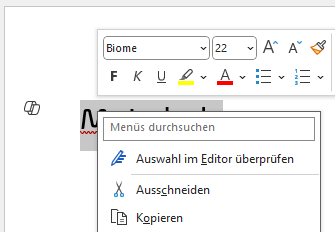
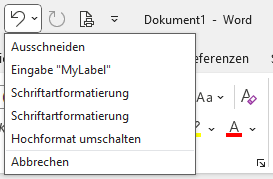
Wesentliches
wird sich nicht ändern.

diff --git a/another-page.md b/another-page.md
@@ -11,8 +11,9 @@ css:
 
 ![](assets/images/Flme.png)
 
-Einfach so. Syndicat is not my favorit game. Auch in diesem gefächt bin ich alleine. 13 23 schnitt ich noch nicht. Ungefähr in diesem Zeitalter musste LeChuck gefunden worden. 33 und so weiter.
-Nach dem schneiden ist links unten in visual studio 2022 nach dem erstellen eines Projektes weil die Projektgelder noch nicht zu Ende gewesen sind Label1 Eigenschaft. Also die nächsten Pausen sind einzuteilen mit wechsel zu visual studio 2022
-dem Wählen des Textes im Eigenschaftenfenster mit dem klicken der nach oben weisenden Eckenpfeilspitze ohne Pfeilschaft bis der Text "Label1" wählbar währe. Mit Strg steuerung plus der Taste A. Danach sollte es möglich sein die Schriftart und die Zeichengröße als EINEN TEILBEREICH der Barrierefreiheit verstehen elrenen zu können. 
+Also mit meinem Verständnis des Windows Datenschutzes kann das erste Ziel nach dem Hochfahren nur das Notepad sein. Die Markeirfarbe kann in MSPaint nicht mit graphischen Darstellungen ohne weiteres verwendet werden. Um das erreichen zu können müssten visual basic scripten verwendet werden können um in meinem Fall erst eine Zeile mit Text im Notepad markieren zu können. Ich habe dieses literarische Ziel in MSPaint graphische Darstellungen markieren zu können noch immer nicht erreicht.
+In einem meiner youtube Beiträge erwähnte ich es soll sein das nach dem öffnen des Notepads zuerst die Enter und danach die Tabulator Taste gedrückt werden sollen um weiter bearbeiten zu können weil der Datenschutz nicht berücksichtigt werden kann. Und man könnte versuchen auf den Autostart Ordner zu reduzieren nur wenn das nicht möglich ist setzt man die Arbeit fort.
+Ausschneiden deute ich als Passwortangabe. Warum kann kein "Label1" durch ein Rollstuhlfahrerpictogramm ersetzt werden?
+Passwörter sind auch geeignet sich die typographischen Dokumentationen durchzulesen. Es ist keine Bedingung diese durchlesen zu können.
 
 [back](./)
